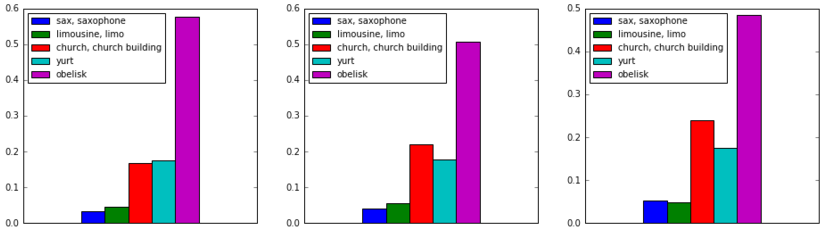
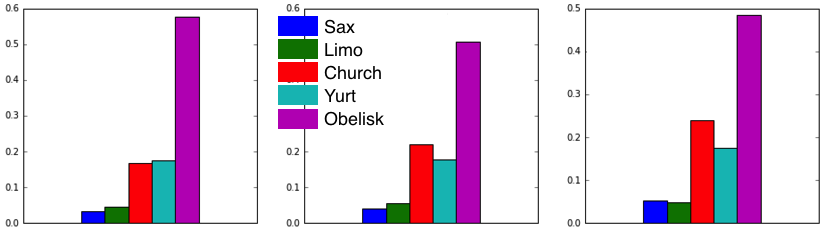
Updated Figure 1 (smaller and more readable).

Changed region(s): [[0.335, 0.0302, 0.5481, 0.5733], [0.7004, 0.0302, 0.8831, 0.3621], [0.0305, 0.0302, 0.2132, 0.3621]]

diff --git a/report/sections/intro.tex b/report/sections/intro.tex
@@ -1,17 +1,21 @@
 \section{Introduction}
 
 
-\begin{figure*}[t]
+\begin{figure}[ht!]
   \centering
 
   \subfloat[
     Church (left) and obelisks (center and right). All three images were
     predicted as \emph{obelisk}.
   ]
-    {\includegraphics[width=.95\textwidth]{figs/qualitative_images.png}}
+    {\includegraphics[width=.45\textwidth]{figs/qualitative_images.png}}
 
-  \subfloat[The CNN's predicted probability distributions of the images above.]
-    {\includegraphics[width=.95\textwidth]{figs/qualitative_probs.png}}
+  \subfloat[
+    The CNN's predicted probability distributions of the images above.
+    The predictions for \emph{obelisk}, \emph{yurt}, and \emph{church}
+    are the largest (purple, teal, and red, respectively).
+  ]
+    {\includegraphics[width=.45\textwidth]{figs/qualitative_probs.png}}
 
   \caption{
     The CNN gives higher probability values to objects which visually similar to
@@ -21,7 +25,7 @@
     semantically.
   }
   \label{fig:qualitative_results}
-\end{figure*}
+\end{figure}
 
 
 Deep neural networks have been very popular in recent years due to their high
